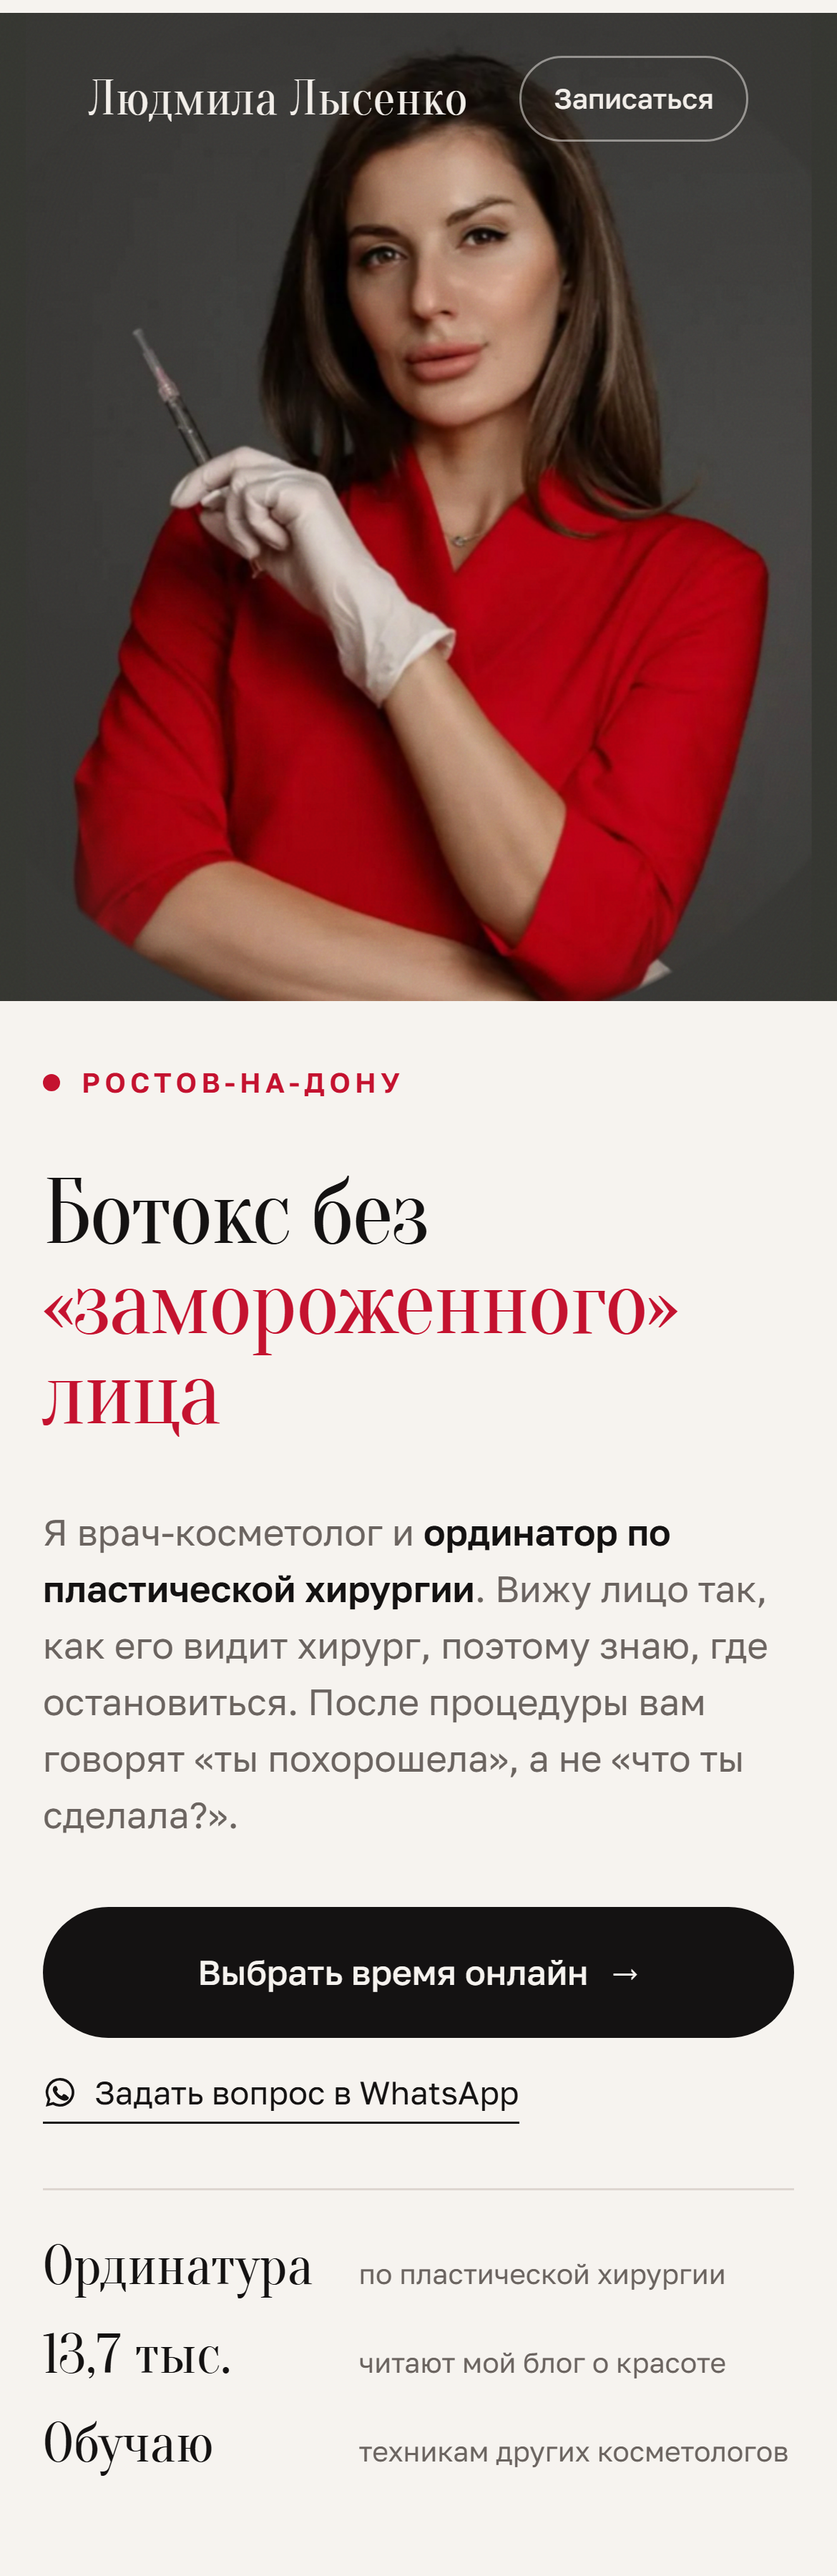
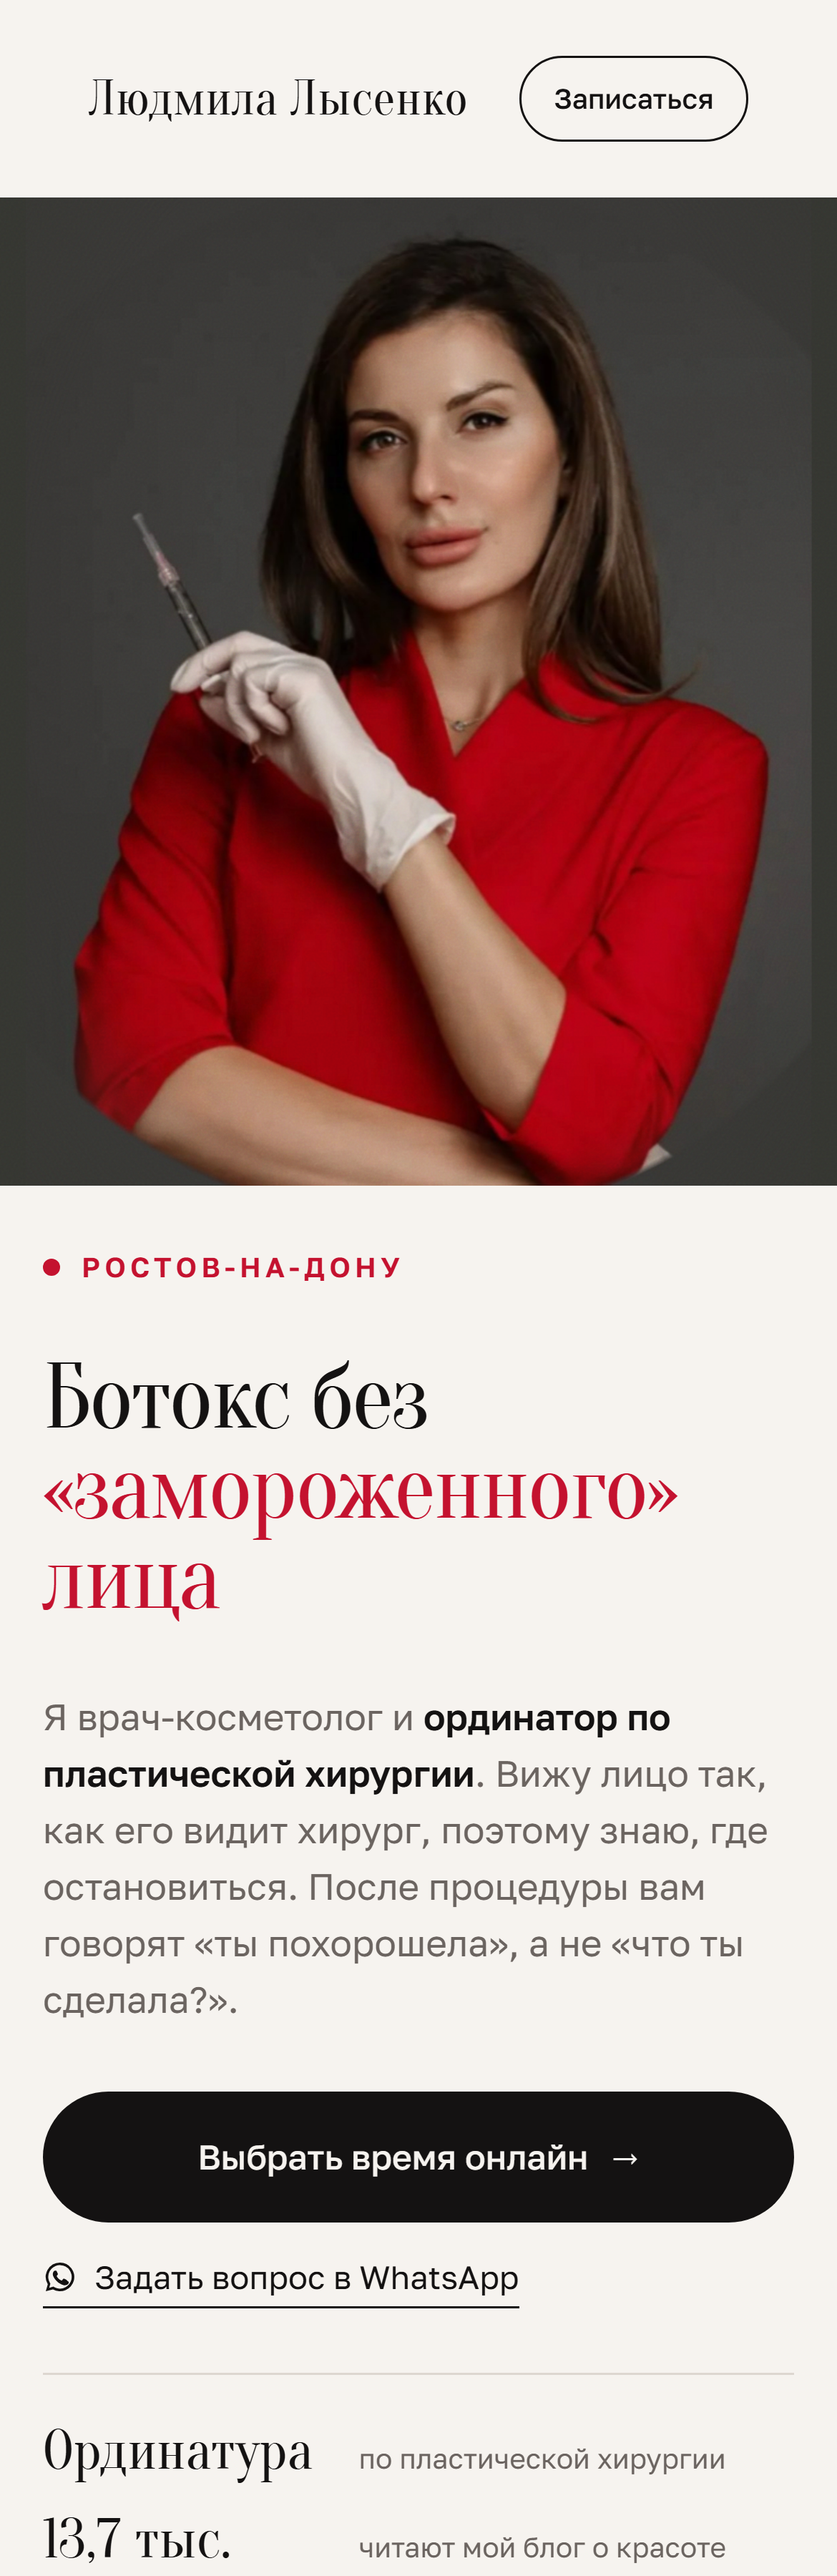
Кнопка записи не перекрывает фото, без повтора имени

diff --git a/index.html b/index.html
@@ -54,7 +54,7 @@ a:focus-visible { outline: 2px solid var(--scarlet); outline-offset: 4px; border
 }
 .studio img {
   position: absolute; left: 50%; bottom: 0; transform: translateX(-50%);
-  height: 100%; max-height: 900px; width: auto; max-width: none; aspect-ratio: 1170 / 1470;
+  height: calc(100% - 104px); max-height: 900px; width: auto; max-width: none; aspect-ratio: 1170 / 1470;
   -webkit-mask-image: radial-gradient(80% 90% at 50% 45%, #000 62%, transparent 100%);
           mask-image: radial-gradient(80% 90% at 50% 45%, #000 62%, transparent 100%);
 }
@@ -124,12 +124,12 @@ h1 .accent { color: var(--scarlet); display: block; }
   .nav { display: none; }
   .page { display: flex; flex-direction: column; }
   .page > .wrap { order: 0; }
-  .studio { position: relative; order: 1; width: auto; height: min(118vw, 560px); margin-top: -86px; }
+  .studio { position: relative; order: 1; width: auto; height: min(118vw, 560px); margin-top: 0; }
   .studio img { height: 100%; }
   .page > .hero-wrap { order: 2; }
   .hero { min-height: 0; padding-block: 28px 40px; }
   .copy { width: 100%; padding-right: 0; }
-  .logo { color: var(--on-studio); }
+  .top-cta { color: var(--ink); border-color: var(--ink); }
 }
 @media (max-width: 560px) {
   .logo { font-size: 23px; }
@@ -140,7 +140,6 @@ h1 .accent { color: var(--scarlet); display: block; }
   .proof { grid-template-columns: minmax(0, 1fr); gap: 14px; }
   .proof div { flex-direction: row; align-items: baseline; gap: 12px; }
   .proof b { font-size: 26px; min-width: 5.2em; }
-  .studio figcaption { display: none; }
 }
 </style>
 </head>
@@ -149,7 +148,6 @@ h1 .accent { color: var(--scarlet); display: block; }
 <div class="page">
   <figure class="studio">
     <img src="img/lyudmila.jpg" alt="Людмила Лысенко, врач-косметолог" width="1170" height="1470">
-    <figcaption><b>Людмила Лысенко</b><span>врач-косметолог · Dr. Lysenko</span></figcaption>
   </figure>
 
   <div class="wrap">
